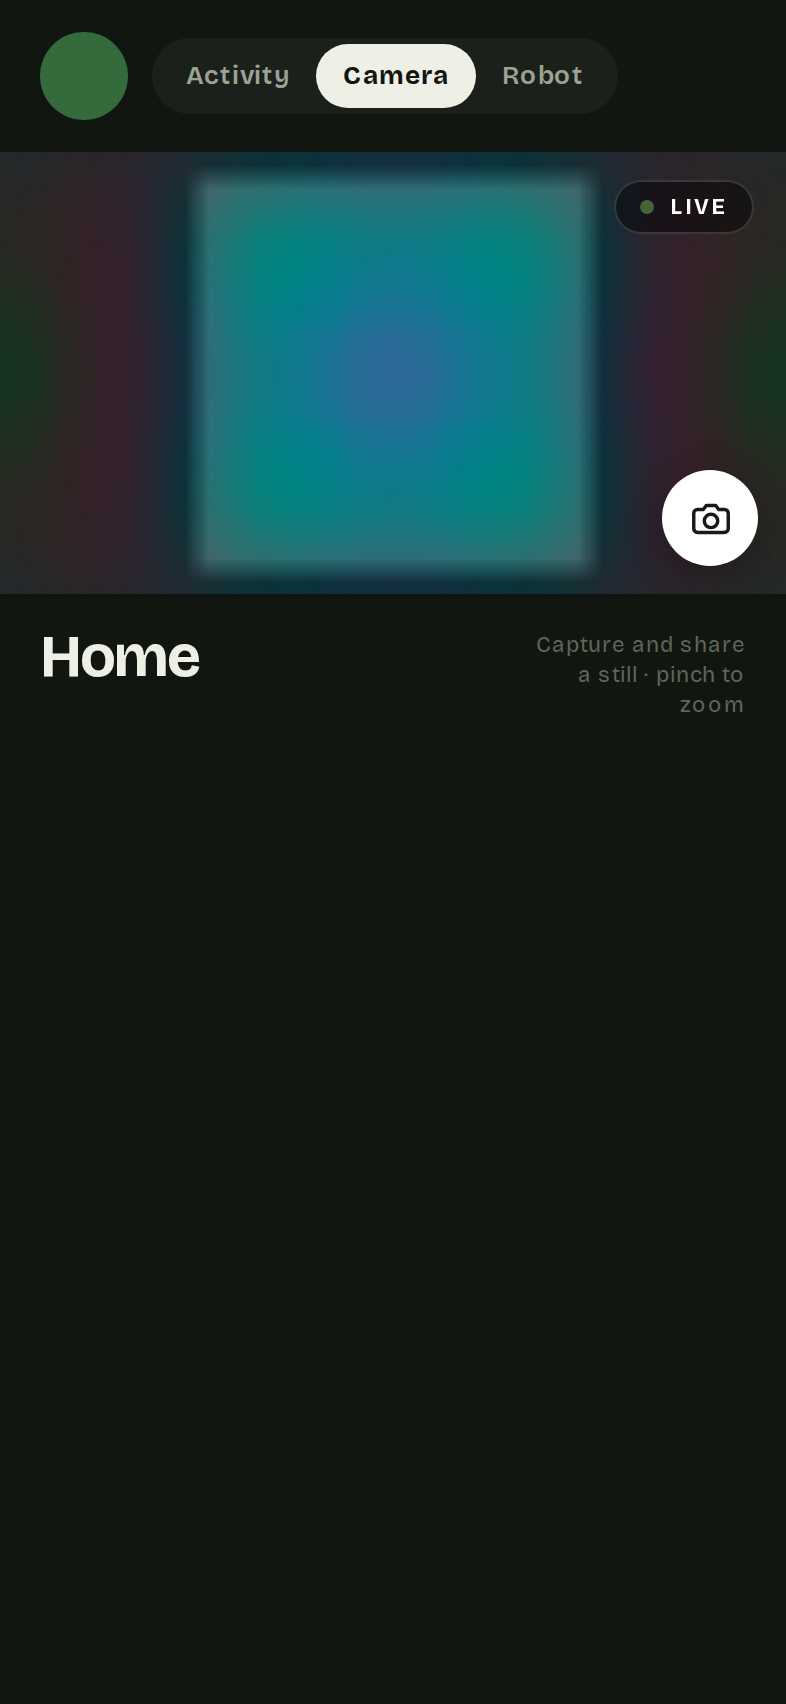
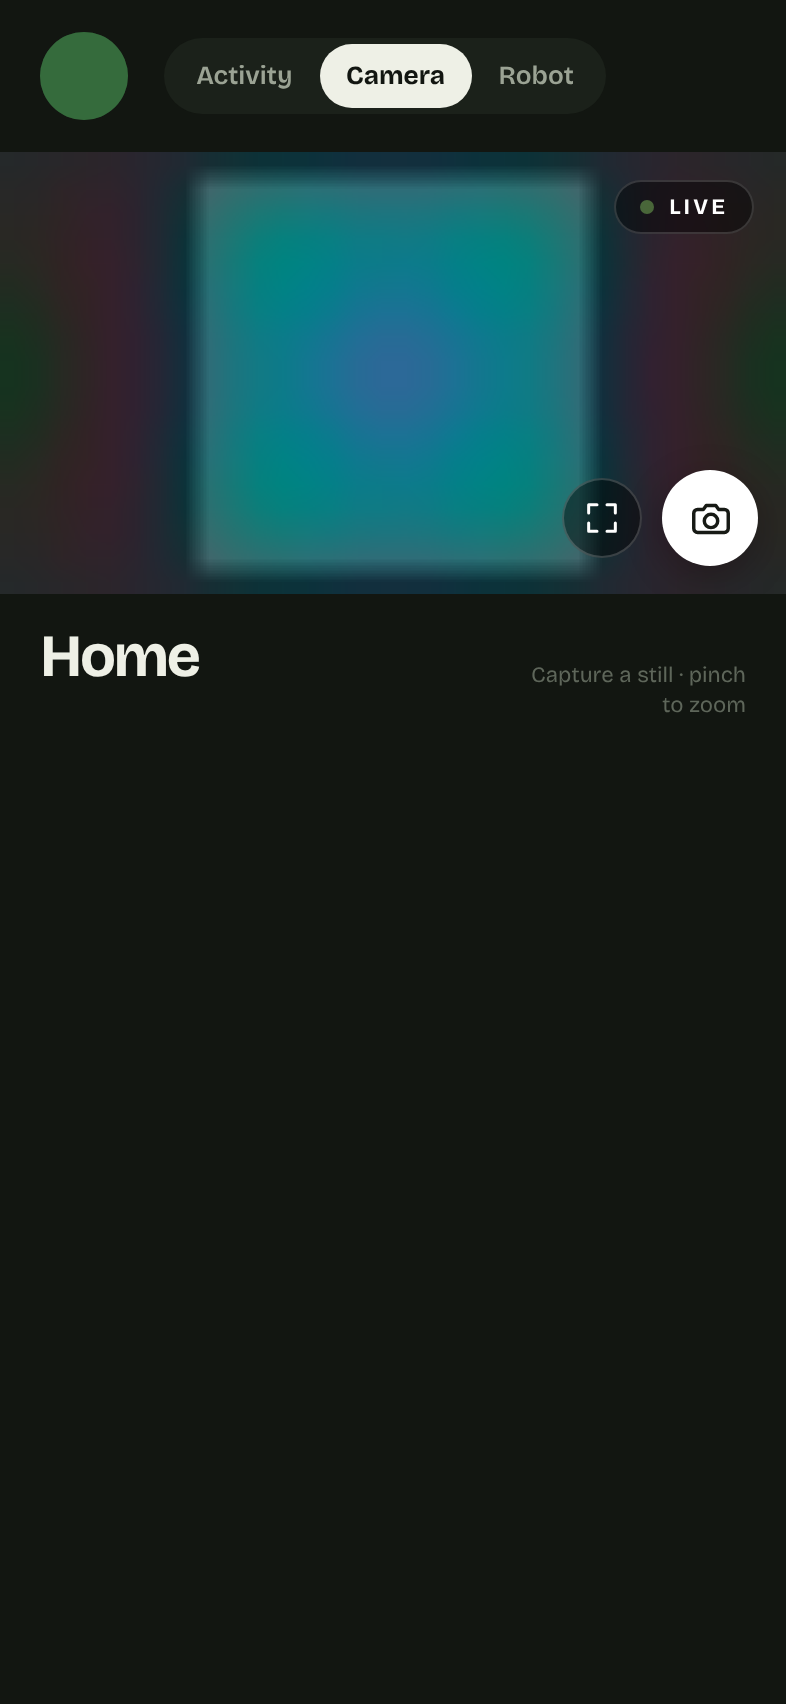
Docs: the https:// option on Tailscale, and the new Camera tab
docs/remote-access.md gains step 6, `tailscale serve --bg 8000`. It is the
one-tap path to Photos (the share sheet only exists on a secure page) and
what lets full view keep the screen on. It is marked as not yet run on the
PC, and states what it costs:

- the PC and tailnet names in public Certificate Transparency logs;
- one login-lockout bucket shared by the whole tailnet, because every
  visitor arrives from 127.0.0.1;
- a new address on each phone, since a Secure cookie will not travel over
  the old http one.

The proxy header stays untrusted until somebody checks exactly what
`tailscale serve` forwards. Trusting the wrong header would let anyone pick
their own lockout bucket.

Also: README and CHANGELOG describe full screen and save-to-Photos, and the
camera screenshots are re-captured with the new button. The other pages'
captures differed only by clock times and test-camera frames, so they are
left alone.

Claude-Session: https://claude.ai/code/session_01KgmQrVuaAGmKyaioEr7d7t

diff --git a/docs/remote-access.md b/docs/remote-access.md
@@ -59,7 +59,8 @@ KONA_KEEP_AWAKE=true
 `http://100.x.y.z:8000`, and a browser will not send a Secure cookie over
 http. Leave it `true` and the symptom is a correct passcode bouncing straight
 back to the login screen, with nothing in the log and nothing on screen to
-tell you why.
+tell you why. (Step 6 gives Tailscale an `https://` address; with that, it
+goes back to `true`.)
 
 The second goes blank because there is no Cloudflare in front of you any
 more. The third keeps the PC awake while you are out; without it the machine
@@ -101,7 +102,64 @@ Administrator:**
 New-NetFirewallRule -DisplayName "kona-tracker 8000" -Direction Inbound -LocalPort 8000 -Protocol TCP -Action Allow
 ```
 
-### 6. Switching back to Cloudflare
+### 6. Optional: an `https://` address on Tailscale
+
+Plain `http://100.x.y.z:8000` works for everything except what a phone only
+allows on a secure page. On an iPhone that is two things the Camera tab uses:
+
+- **Sharing a photo.** Over https the shutter opens the share sheet, and
+  **Save Image** puts the photo in Photos in one tap. Over http, iPhone
+  Safari refuses to share a file. The tab then shows the photo instead,
+  to be pressed and held for **Save to Photos**: one more step.
+- **Keeping the screen on** while you watch in full view.
+
+`tailscale serve` gives the PC an https address with a real certificate,
+reachable only from your own tailnet. It is not `tailscale funnel`, which
+would put the app on the public internet; do not run that.
+
+**Not yet tried on the PC.** The steps are Tailscale's documented ones, but
+nobody has run them on this machine, so check each result.
+
+1. **Turn on HTTPS for the tailnet**, once, in a browser: the Tailscale admin
+   console, **DNS** page. Turn **MagicDNS** on, then **HTTPS Certificates**
+   ("Enable HTTPS").
+2. **On the PC**, in PowerShell (if it says access is denied, use PowerShell
+   as Administrator):
+
+   ```powershell
+   tailscale serve --bg 8000
+   tailscale serve status        # prints the https://<pc>.<tailnet>.ts.net address
+   ```
+
+   `--bg` keeps it running after the window closes, and across reboots.
+   `tailscale serve reset` undoes it.
+3. **In `.env`**, set `KONA_SECURE_COOKIES=true`. Leave
+   `KONA_TRUSTED_PROXY_HEADER` blank (see below). Restart the task:
+   `Stop-ScheduledTask -TaskName kona-tracker; Start-ScheduledTask -TaskName kona-tracker`.
+4. **On each phone**, open the `https://...ts.net` address, sign in again, and
+   add it to the Home Screen. Then delete the old `http://` icon: with the
+   cookie now Secure, the old address shows the page but bounces every
+   sign-in.
+
+What it costs, so it is a choice and not a surprise:
+
+- **The PC's name and your tailnet's name become public.** Every HTTPS
+  certificate is written to public Certificate Transparency logs, and these
+  are issued for `<pc>.<tailnet>.ts.net`. Nothing is reachable from those
+  logs, but if the PC's name is personal, rename the machine in the admin
+  console first.
+- **Everyone on your tailnet shares one login lockout.** `tailscale serve`
+  connects to the app from the PC itself, so every visitor arrives as
+  `127.0.0.1`. Too many wrong passcodes from one phone locks the other out
+  too, for the lockout window. The fix would be to trust a forwarded-address
+  header. That stays off until it has been checked exactly which header
+  `tailscale serve` sends and in what form; trusting the wrong one would
+  let anyone choose their own lockout bucket. On a tailnet of two people's
+  phones, a shared bucket is the safe default.
+- **The first visit can take a few seconds** while Tailscale fetches the
+  certificate.
+
+### 7. Switching back to Cloudflare
 
 **Set `KONA_SECURE_COOKIES=true` again before you use a tunnel**, and restart.
 Forget, and the session cookie travels a public HTTPS URL without the Secure

diff --git a/README.md b/README.md
@@ -17,8 +17,9 @@ rooms, all from a phone. Built for two people and one Labrador.
 
 - **Activity** from a Fi collar: steps against the daily goal, sleep and naps,
   today by the hour, where she is on a map, and a walk log with each route.
-- **Camera**: live video from a Tapo C120 over RTSP, with pinch-to-zoom and the
-  camera's own night vision, privacy mode and status light.
+- **Camera**: live video from a Tapo C120 over RTSP, with pinch-to-zoom, a
+  full-screen view, stills you can save to Photos, and the camera's own night
+  vision, privacy mode and status light.
 - **Robot**: live view from a Hiwonder TurboPi and a landscape drive mode with
   two joysticks, driven through a safety gateway on the Pi.
 - One shared passcode. No accounts and no per-person setup.
@@ -86,7 +87,7 @@ tunnel or Tailscale, and the one setting that breaks login if it is wrong.
 | `/steps`, `/rest` | Today's steps by the hour. Sleep and naps by the hour, then one bar per day since the collar came online. Drag across a chart to read it. |
 | `/walks/<id>` | One walk: distance, pace, and the route on a map. |
 | `/map` | The map full screen, polling on its own clock, for following a walk. |
-| `/camera` | The picture. Pinch or double-tap to zoom. Night vision, privacy and the status light when the camera answers. |
+| `/camera` | The picture. Pinch or double-tap to zoom; full screen and back. The shutter saves a still. Night vision, privacy and the status light when the camera answers. |
 | `/robot` | The robot's camera and its front lights. |
 | `/drive` | Landscape drive mode: two joysticks, rotate buttons, and a stop button. |
 | `/settings` | Profile, appearance, sign out, build. |

diff --git a/CHANGELOG.md b/CHANGELOG.md
@@ -10,6 +10,21 @@ Mostly the story of getting the one machine that serves this app running again,
 and making it stay that way. `docs/history/2026-09-30-application-control-blocks-python.md`
 has the day in full.
 
+### The Camera tab, after a week and a half of use
+
+- **Full screen.** A button next to the shutter fills the screen with the
+  picture, letterboxed rather than cropped. Pinch, double-tap and the shutter
+  all still work there. Minimize with the same button, a swipe down, or the
+  phone's Back. A web page cannot turn an iPhone's screen, so upright it says
+  to turn the phone. The controls fade after three seconds and come back on
+  a touch.
+- **The shutter saves to Photos.** Over the plain `http://` Tailscale
+  address, iPhone Safari will not share a file, and the old fallback was a
+  download: "open in preview", filed under Files. Now the photo is shown, to
+  be pressed and held for Save to Photos. On an `https://` address the share
+  sheet's Save Image does it in one tap; `docs/remote-access.md` step 6 has
+  the `tailscale serve` setup, which also keeps the screen on in full view.
+
 ### Running under Smart App Control
 
 - Windows' Smart App Control, now enforcing on the home PC, refused the
